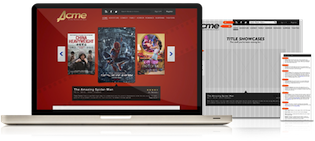
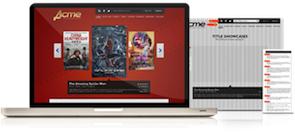
Home Page fix?
Keeping my fingers crossed.

diff --git a/project/stylesheets/style.css b/project/stylesheets/style.css
@@ -598,7 +598,6 @@ select {
 			background: url('../images/mobile_bg.jpg') repeat-x, #dfdfd5;
 		}
 		
-		
 		header {
 			position: relative;
 		}
@@ -641,10 +640,9 @@ select {
 			color: #deded3;
 		}
 		
-		#CTA img { 
-			margin: 10px 0 0 0; 
-			width: 315px;
-			height: 141px;
+		#home .mainContent {
+			background: url('../images/call_to_action-mobile.png') no-repeat;
+			background-size: contain;
 		}
 		
 		.mainContent {
@@ -677,5 +675,15 @@ select {
 	@media only screen and (max-width: 479px) {
 		#CTA p { 
 			line-height: 1.2; 
+		}
+		
+		#CTAbutton a {
+			margin-top: 145px;
+		}
+		
+		#home .mainContent {
+			background: url('../images/call_to_action-mobile.png') no-repeat;
+			background-position: 0px 295px;
+			min-height: 495px;
 		}
 	}
